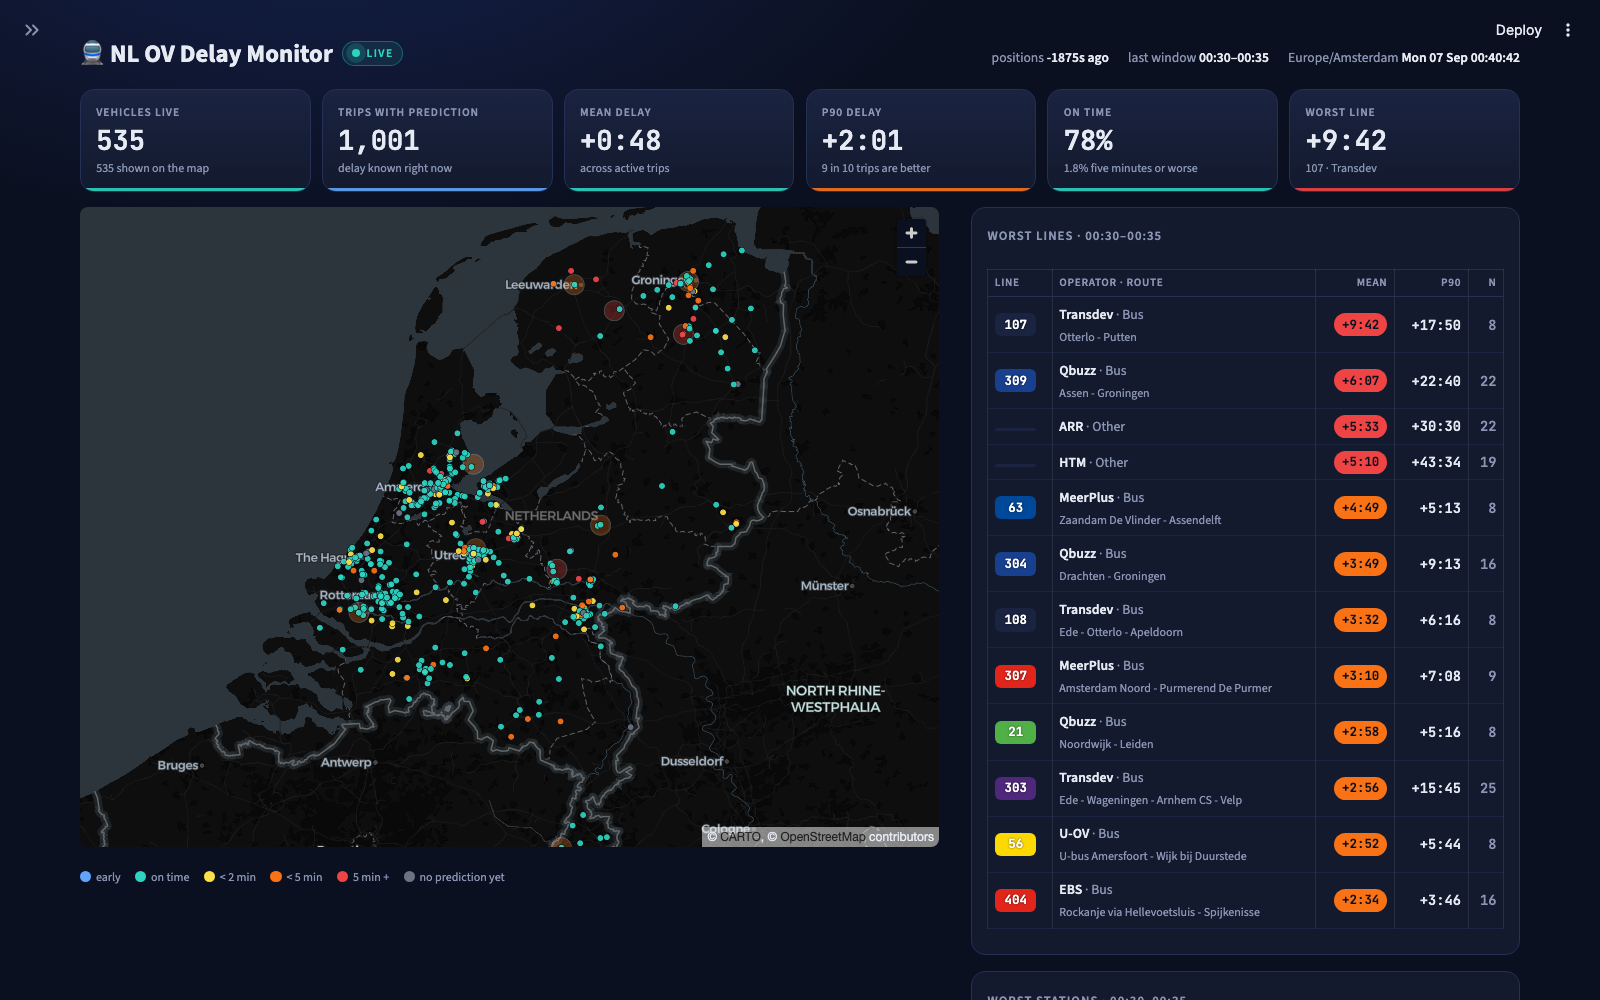
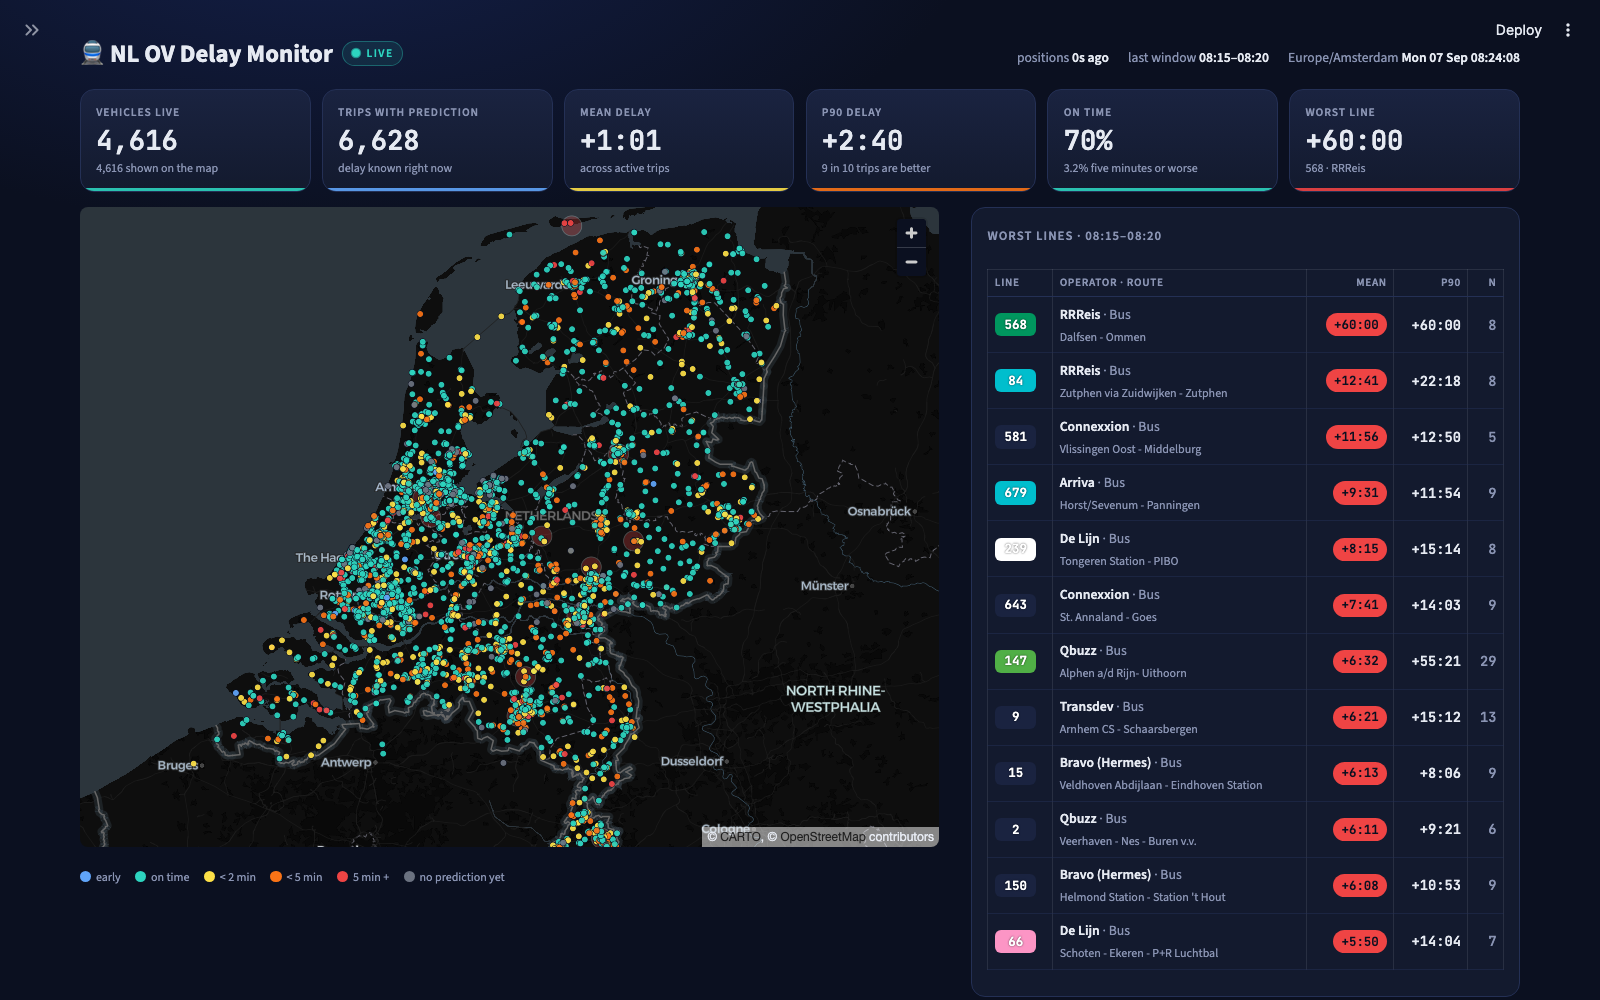
docs: README with numbers, correctness story, decisions; screenshots; dashboard panel polish
Claude-Session: https://claude.ai/code/session_01M3szx8fCaD45bmarHae7ev

diff --git a/dashboard/src/dashboard/styles.css b/dashboard/src/dashboard/styles.css
@@ -216,3 +216,18 @@ div[data-testid="stSidebar"] {
   background:var(--ov-panel);
   border-right:1px solid var(--ov-border);
 }
+
+/* Streamlit bordered containers styled like our own panels */
+div[data-testid="stVerticalBlockBorderWrapper"] {
+  background: var(--ov-panel);
+  border: 1px solid var(--ov-border) !important;
+  border-radius: 14px;
+}
+h4.ov-h {
+  margin: 0 0 .2rem;
+  font-size: .8rem;
+  letter-spacing: .08em;
+  text-transform: uppercase;
+  color: var(--ov-muted);
+  font-weight: 600;
+}

diff --git a/dashboard/src/dashboard/app.py b/dashboard/src/dashboard/app.py
@@ -354,6 +354,7 @@ def operators_figure(ops: pd.DataFrame) -> go.Figure:
             marker_color=[hex_for(v) for v in d["mean_s"]],
             text=[fmt_delay(v) for v in d["mean_s"]],
             textposition="outside",
+            cliponaxis=False,
             textfont={"family": "JetBrains Mono, monospace", "size": 11},
             customdata=d[["n", "p90_s"]].to_numpy(),
             hovertemplate="%{y}<br>mean %{x:.1f} min · P90 %{customdata[1]:.0f}s · n=%{customdata[0]}<extra></extra>",
@@ -362,7 +363,7 @@ def operators_figure(ops: pd.DataFrame) -> go.Figure:
         template="plotly_dark",
         paper_bgcolor="rgba(0,0,0,0)",
         plot_bgcolor="rgba(0,0,0,0)",
-        margin={"l": 8, "r": 40, "t": 4, "b": 8},
+        margin={"l": 8, "r": 70, "t": 4, "b": 8},
         height=330,
         xaxis={"title": "mean delay (min)", "gridcolor": "rgba(36,48,85,.6)", "zeroline": False},
         yaxis={"tickfont": {"size": 11}},
@@ -519,7 +520,7 @@ def live_view(
     with left:
         deck = build_map(vehicles, data["stations"], show_stations, point_size)
         try:
-            st.pydeck_chart(deck, use_container_width=True, height=640)
+            st.pydeck_chart(deck, width="stretch", height=640)
         except TypeError:
             st.pydeck_chart(deck, use_container_width=True)
         st.markdown(legend_html(), unsafe_allow_html=True)
@@ -534,39 +535,32 @@ def live_view(
             unsafe_allow_html=True,
         )
 
-    st.markdown("<div style='height:.6rem'></div>", unsafe_allow_html=True)
-    st.markdown(
-        "<div class='ov-panel'><h4>Network delay · last 3 hours, 5-minute tumbling windows</h4>",
-        unsafe_allow_html=True,
-    )
-    st.plotly_chart(
-        trend_figure(data["trend"]), use_container_width=True, config={"displayModeBar": False}
-    )
-    st.markdown("</div>", unsafe_allow_html=True)
+    with st.container(border=True):
+        st.markdown(
+            "<h4 class='ov-h'>Network delay · last 3 hours, 5-minute tumbling windows</h4>",
+            unsafe_allow_html=True,
+        )
+        st.plotly_chart(
+            trend_figure(data["trend"]), width="stretch", config={"displayModeBar": False}
+        )
 
     c1, c2 = st.columns(2, gap="medium")
-    with c1:
+    with c1, st.container(border=True):
         st.markdown(
-            f"<div class='ov-panel'><h4>Operators · mean delay, {esc(window_label(ws, we))}</h4>",
+            f"<h4 class='ov-h'>Operators · mean delay, {esc(window_label(ws, we))}</h4>",
             unsafe_allow_html=True,
         )
         st.plotly_chart(
-            operators_figure(data["operators"]),
-            use_container_width=True,
-            config={"displayModeBar": False},
+            operators_figure(data["operators"]), width="stretch", config={"displayModeBar": False}
         )
-        st.markdown("</div>", unsafe_allow_html=True)
-    with c2:
+    with c2, st.container(border=True):
         st.markdown(
-            "<div class='ov-panel'><h4>Delay distribution · active trips right now</h4>",
+            "<h4 class='ov-h'>Delay distribution · active trips right now</h4>",
             unsafe_allow_html=True,
         )
         st.plotly_chart(
-            histogram_figure(data["hist"]),
-            use_container_width=True,
-            config={"displayModeBar": False},
+            histogram_figure(data["hist"]), width="stretch", config={"displayModeBar": False}
         )
-        st.markdown("</div>", unsafe_allow_html=True)
 
     st.markdown(ops_strip(load_ops()), unsafe_allow_html=True)
     st.caption(

diff --git a/dashboard/src/dashboard/ops.py b/dashboard/src/dashboard/ops.py
@@ -8,8 +8,10 @@ QUERIES = {
     "msg_in_per_s": "sum(rate(producer_published_total[2m]))",
     "msg_processed_per_s": "sum(rate(processor_messages_total[2m]))",
     "consumer_lag": "sum(processor_consumer_lag)",
-    "dlq_1h": "sum(increase(processor_dlq_total[1h])) + sum(increase(producer_dlq_total[1h]))",
-    "late_1h": "sum(increase(processor_late_events_total[1h]))",
+    # `or vector(0)`: a counter with no samples yet must read 0, not make the whole sum empty.
+    "dlq_1h": "(sum(increase(processor_dlq_total[1h])) or vector(0)) "
+    "+ (sum(increase(producer_dlq_total[1h])) or vector(0))",
+    "late_1h": "sum(increase(processor_late_events_total[1h])) or vector(0)",
     "windows_1h": "sum(increase(processor_windows_finalized_total[1h]))",
     "watermark_lag_s": "processor_watermark_lag_seconds",
     "archive_objects_1h": "sum(increase(archiver_objects_total[1h]))",

diff --git a/observability/grafana/build_dashboard.py b/observability/grafana/build_dashboard.py
@@ -176,7 +176,8 @@ panels = [
     ),
     stat(
         "DLQ / h",
-        "sum(increase(processor_dlq_total[1h])) + sum(increase(producer_dlq_total[1h]))",
+        "(sum(increase(processor_dlq_total[1h])) or vector(0)) "
+        "+ (sum(increase(producer_dlq_total[1h])) or vector(0))",
         x=16,
         y=0,
         thresholds=green_amber_red(50, 500),
@@ -184,7 +185,7 @@ panels = [
     ),
     stat(
         "Late events / h",
-        "sum(increase(processor_late_events_total[1h]))",
+        "sum(increase(processor_late_events_total[1h])) or vector(0)",
         x=20,
         y=0,
         thresholds=green_amber_red(1000, 10000),

diff --git a/README.md b/README.md
@@ -8,8 +8,9 @@ station, operator and network, Postgres serves them, and a live dashboard draws 
 
 ![Live dashboard: map of vehicles coloured by delay, KPI tiles, worst lines and stations](docs/img/dashboard.png)
 
-*Sunday 00:40, 535 vehicles on the road. Colour = current delay of the trip. Right: worst lines in
-the last finalized window, with GTFS route colours.*
+*Monday 08:24, 4 616 vehicles on the road. Colour = current delay of the trip; faint discs are
+station hotspots from the last window. Right: worst lines in the last finalized window, with GTFS
+route colours. The same page at [00:40 on a Sunday night](docs/img/dashboard-night.png) shows 535.*
 
 ---
 
@@ -116,6 +117,12 @@ no operator filter. `make throughput` prints the table for any range (`RANGE=24h
 | Raw archive | ~1 MB gzipped per hour at night; ~10 MB/h in the peak |
 
 ### The 24-hour run
+
+![Grafana: throughput, consumer lag, watermark lag, DLQ rate, late events, windows finalized, state and archive panels](docs/img/grafana.png)
+
+*The provisioned Grafana dashboard after the first night. The sawtooth in "event-time watermark
+lag" and the hourly spikes in "windows finalized" are not the pipeline: they are the laptop's
+hourly maintenance wake-ups while it slept (see below). Consumer lag stayed at zero throughout.*
 
 The Definition of Done asks for a 24-hour continuous run with an annotated Grafana screenshot.
 The stack has been running continuously since 2026-09-06 21:30 UTC; the annotated screenshot
